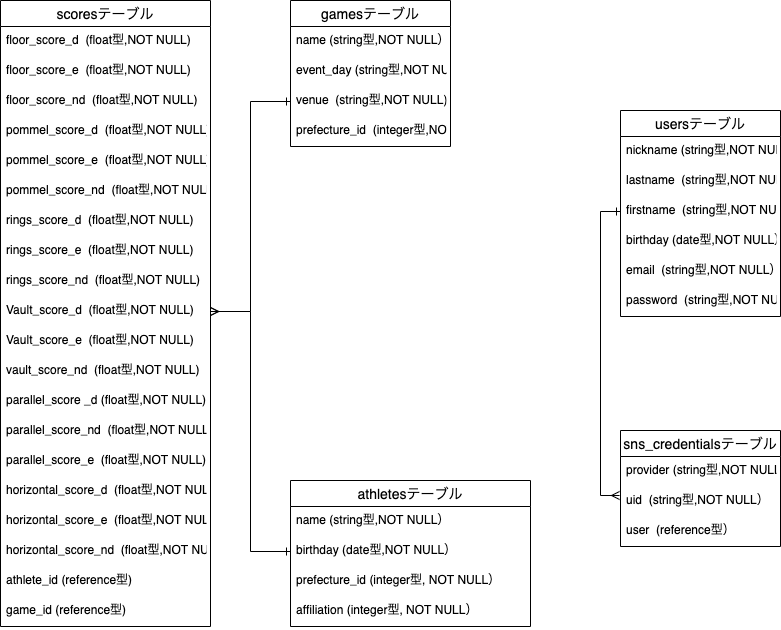
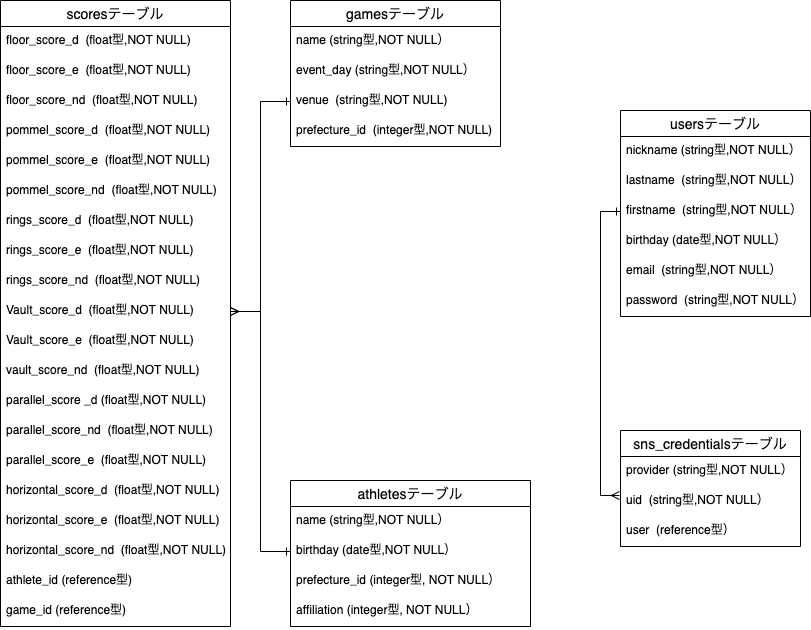
Readme修正４

diff --git a/README.md b/README.md
@@ -33,6 +33,10 @@
 ### エディタ
 - VScode
 
+# 実装した機能
+ ![大会データ登録](https://user-images.githubusercontent.com/77039946/109586145-0ebc1100-7b48-11eb-8329-6daef1670fa2.mp4)
+GIFと説明	実装した機能について、それぞれどのような特徴があるのか列挙しましょう。GIFを添えることで、イメージがしやすくなります。
+
 # URL
 - http://54.95.203.169/
 
@@ -48,9 +52,9 @@
 
 # 目指した課題解決	
 以前所属していた大学の大会スコア集計作業を”紙”で行っていた事に以下の課題を感じておりました。
-<br>>誤記入時における訂正（誤記入箇所の訂正を横線で行っていたため、紙が汚くなり見辛い）
-<br>>トータルスコアの計算（電卓で計算）
-<br>>２重作業（試合終了後、紙で記載していた内容をExcel等に再度データ入力）
+- 誤記入時における訂正（誤記入箇所の訂正を横線で行っていたため、紙が汚くなり見辛い）
+- トータルスコアの計算（電卓で計算）
+- 二重作業（試合終了後、紙で記載していた内容をExcel等に再度データ入力）
 <br>以上の煩雑な手順を簡略化し課題解決を目指しました。
 
 # 要件	
@@ -82,10 +86,10 @@
 - EC2上でSNS認証機能を使用できる様にする。
 
 # データベース設計	
- ![ER図](/Users/yussan/Desktop/myapp/gymnast/gymnast.png)
+ ![ER図](https://user-images.githubusercontent.com/77039946/109584984-f6e38d80-7b45-11eb-8afb-da021920841e.png)
 
 # ローカルでの動作方法	
-- git cloneしてから、ローカルで動作をさせるまでに必要なコマンドを記述しましょう。この時、アプリケーション開発に使用した環境を併記することを忘れないでください（パッケージやRubyのバージョンなど）。
+-GitGit
 
 # DBテーブル設計
 ## users テーブル
